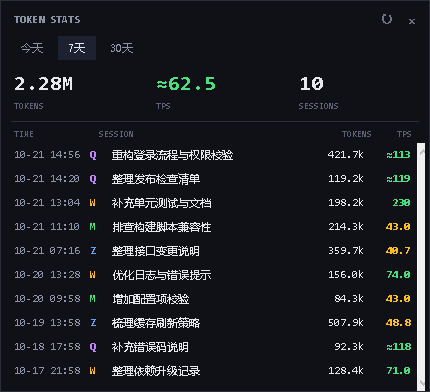
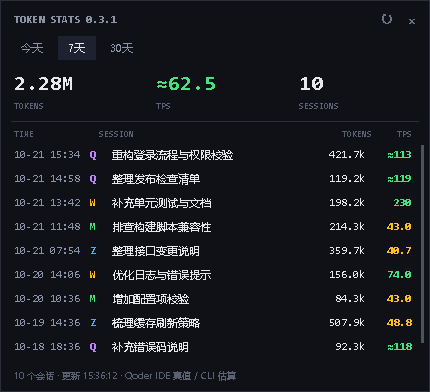
Polish stats scrolling and show app version

diff --git a/tps_overlay.py b/tps_overlay.py
@@ -1388,6 +1388,7 @@ def once() -> None:
         print(json.dumps(r.__dict__, ensure_ascii=False))
 
 
+APP_VERSION = "0.3.1"
 BG = "#0f1117"
 BORDER = "#2a2f3a"
 TEXT = "#e6e8ee"
@@ -1411,7 +1412,7 @@ CLIENT_COLORS = {
 class Overlay:
     def __init__(self) -> None:
         self.root = tk.Tk()
-        self.root.title("TPS Monitor")
+        self.root.title(f"TPS Monitor {APP_VERSION}")
         self.root.overrideredirect(True)
         self.root.attributes("-topmost", True)
         self.root.attributes("-alpha", 0.96)
@@ -1487,7 +1488,7 @@ class Overlay:
         header.pack_propagate(False)
         tk.Label(
             header,
-            text="TPS",
+            text=f"TPS {APP_VERSION}",
             bg=BG,
             fg="#6b7280",
             font=("Consolas", 7, "bold"),
@@ -1739,7 +1740,7 @@ class Overlay:
         head.pack(fill="x", padx=10, pady=(7, 4))
         tk.Label(
             head,
-            text="TOKEN STATS",
+            text=f"TOKEN STATS {APP_VERSION}",
             bg=BG,
             fg=SUBTLE,
             font=("Consolas", 8, "bold"),
@@ -1816,22 +1817,30 @@ class Overlay:
             label.grid(row=0, column=index, sticky="ew", padx=(0, 4))
         columns.columnconfigure(2, weight=1)
 
+        self.popup_note = tk.Label(
+            outer,
+            text="",
+            bg=BG,
+            fg="#596173",
+            font=("Microsoft YaHei UI", 7),
+            anchor="w",
+        )
+        self.popup_note.pack(side="bottom", fill="x", padx=10, pady=(2, 6))
+
         wrap = tk.Frame(outer, bg=BG)
         wrap.pack(fill="both", expand=True, padx=(10, 4), pady=(0, 0))
-        self.popup_canvas = tk.Canvas(wrap, bg=BG, highlightthickness=0)
-        scroll = tk.Scrollbar(
-            wrap,
-            orient="vertical",
-            command=self.popup_canvas.yview,
-            width=8,
-            bg=BG,
-            troughcolor=BG,
-            bd=0,
-            relief="flat",
+        self.popup_canvas = tk.Canvas(
+            wrap, bg=BG, highlightthickness=0, yscrollincrement=16
         )
-        self.popup_canvas.configure(yscrollcommand=scroll.set)
+        self.popup_scrollbar = tk.Canvas(
+            wrap, width=5, bg=BG, highlightthickness=0, bd=0
+        )
+        self.popup_canvas.configure(yscrollcommand=self._update_scrollbar)
         self.popup_canvas.pack(side="left", fill="both", expand=True)
-        scroll.pack(side="right", fill="y")
+        self.popup_scrollbar.pack(side="right", fill="y", padx=(2, 0))
+        self.popup_scrollbar.bind("<Button-1>", self._scrollbar_jump)
+        self.popup_scrollbar.bind("<B1-Motion>", self._scrollbar_jump)
+        self.popup_scrollbar.bind("<Configure>", lambda _e: self._update_scrollbar())
         self.popup_rows = tk.Frame(self.popup_canvas, bg=BG)
         self.popup_canvas_window = self.popup_canvas.create_window(
             (0, 0), window=self.popup_rows, anchor="nw"
@@ -1848,23 +1857,8 @@ class Overlay:
                 self.popup_canvas_window, width=e.width
             ),
         )
-        win.bind(
-            "<MouseWheel>",
-            lambda e: self.popup_canvas.yview_scroll(
-                int(-e.delta / 120), "units"
-            ),
-        )
+        win.bind("<MouseWheel>", self._popup_wheel)
         win.bind("<Escape>", lambda _e: self._close_popup())
-
-        self.popup_note = tk.Label(
-            outer,
-            text="",
-            bg=BG,
-            fg="#596173",
-            font=("Microsoft YaHei UI", 7),
-            anchor="w",
-        )
-        self.popup_note.pack(fill="x", padx=10, pady=(2, 6))
 
         width, height = 430, 392
         self.root.update_idletasks()
@@ -1880,6 +1874,62 @@ class Overlay:
         self._set_period("today", render=False)
         self._ensure_data("today")
         self.root.after(30000, self._auto_refresh_tick)
+
+    def _update_scrollbar(self, first=None, last=None) -> None:
+        if self.popup is None or not hasattr(self, "popup_scrollbar"):
+            return
+        scrollbar = self.popup_scrollbar
+        if not scrollbar.winfo_exists():
+            return
+        if first is None or last is None:
+            first, last = self.popup_canvas.yview()
+        else:
+            first, last = float(first), float(last)
+        scrollbar.delete("all")
+        if last - first >= 0.999:
+            return
+        height = max(1, scrollbar.winfo_height())
+        top = 2 + first * height
+        bottom = last * height - 2
+        if bottom - top < 14:
+            middle = (top + bottom) / 2
+            top, bottom = middle - 7, middle + 7
+        scrollbar.create_rectangle(
+            1,
+            max(1, top),
+            4,
+            min(height - 1, bottom),
+            fill="#4a5264",
+            outline="",
+        )
+
+    def _scrollbar_jump(self, event) -> None:
+        if self.popup is None:
+            return
+        height = max(1, self.popup_scrollbar.winfo_height())
+        fraction = max(0.0, min(1.0, event.y / height))
+        self.popup_canvas.yview_moveto(fraction)
+        self._update_scrollbar()
+
+    def _popup_wheel(self, event):
+        if self.popup is None:
+            return "break"
+        first, last = self.popup_canvas.yview()
+        if last - first >= 0.999:
+            return "break"
+        if event.delta > 0:
+            if first <= 0:
+                return "break"
+            step = -1
+        elif event.delta < 0:
+            if last >= 1:
+                return "break"
+            step = 1
+        else:
+            return "break"
+        self.popup_canvas.yview_scroll(step, "units")
+        self._update_scrollbar()
+        return "break"
 
     def _summary_card(self, parent, caption, color, size):
         card = tk.Frame(parent, bg=BG)
@@ -2017,7 +2067,7 @@ class Overlay:
             else "—"
         )
         self.popup_note.configure(
-            text=f"{min(len(visible), 80)} 个会话 · 更新 {stamp} · Qoder 估算"
+            text=f"{min(len(visible), 80)} 个会话 · 更新 {stamp} · Qoder IDE 真值 / CLI 估算"
         )
 
         self._clear_rows()
@@ -2067,6 +2117,7 @@ class Overlay:
         for child in self.popup_rows.winfo_children():
             child.destroy()
         self.popup_canvas.yview_moveto(0)
+        self._update_scrollbar()
 
     def _close_popup(self) -> None:
         self.popup_token += 1

diff --git a/README.en.md b/README.en.md
@@ -73,6 +73,7 @@ Short left-click or right-click the HUD to inspect historical sessions:
 - Switch between today / 7 days / 30 days.
 - See total tokens, overall TPS and session count for the period.
 - List each session's tokens and TPS by time.
+- Scroll with the wheel or the thin bar on the right; scrolling stops at the top and bottom.
 - Today's data is preloaded at startup, so the first open is usually instant.
 - While open, today's data refreshes silently about every 60 seconds; 7-day / 30-day data refreshes on switching, reopening or clicking `↻`.
 - Data is cached after reading, so reopening is instant.

diff --git a/README.md b/README.md
@@ -82,6 +82,7 @@ python tps_overlay.py --once
 - 切换今天 / 7 天 / 30 天；
 - 查看该时间段的总 token、整体 TPS 和会话数；
 - 按时间列出每个会话的 token 与 TPS；
+- 会话列表支持滚轮和右侧细滚动条，到顶/到底不会继续空滚；
 - 启动后会预读今天的数据，第一次点开通常直接显示；
 - 弹窗开着时，“今天”数据约每 60 秒静默刷新；7 天 / 30 天在切换、重新打开或点 `↻` 时刷新；
 - 读到的历史数据会缓存，重复打开直接显示；
